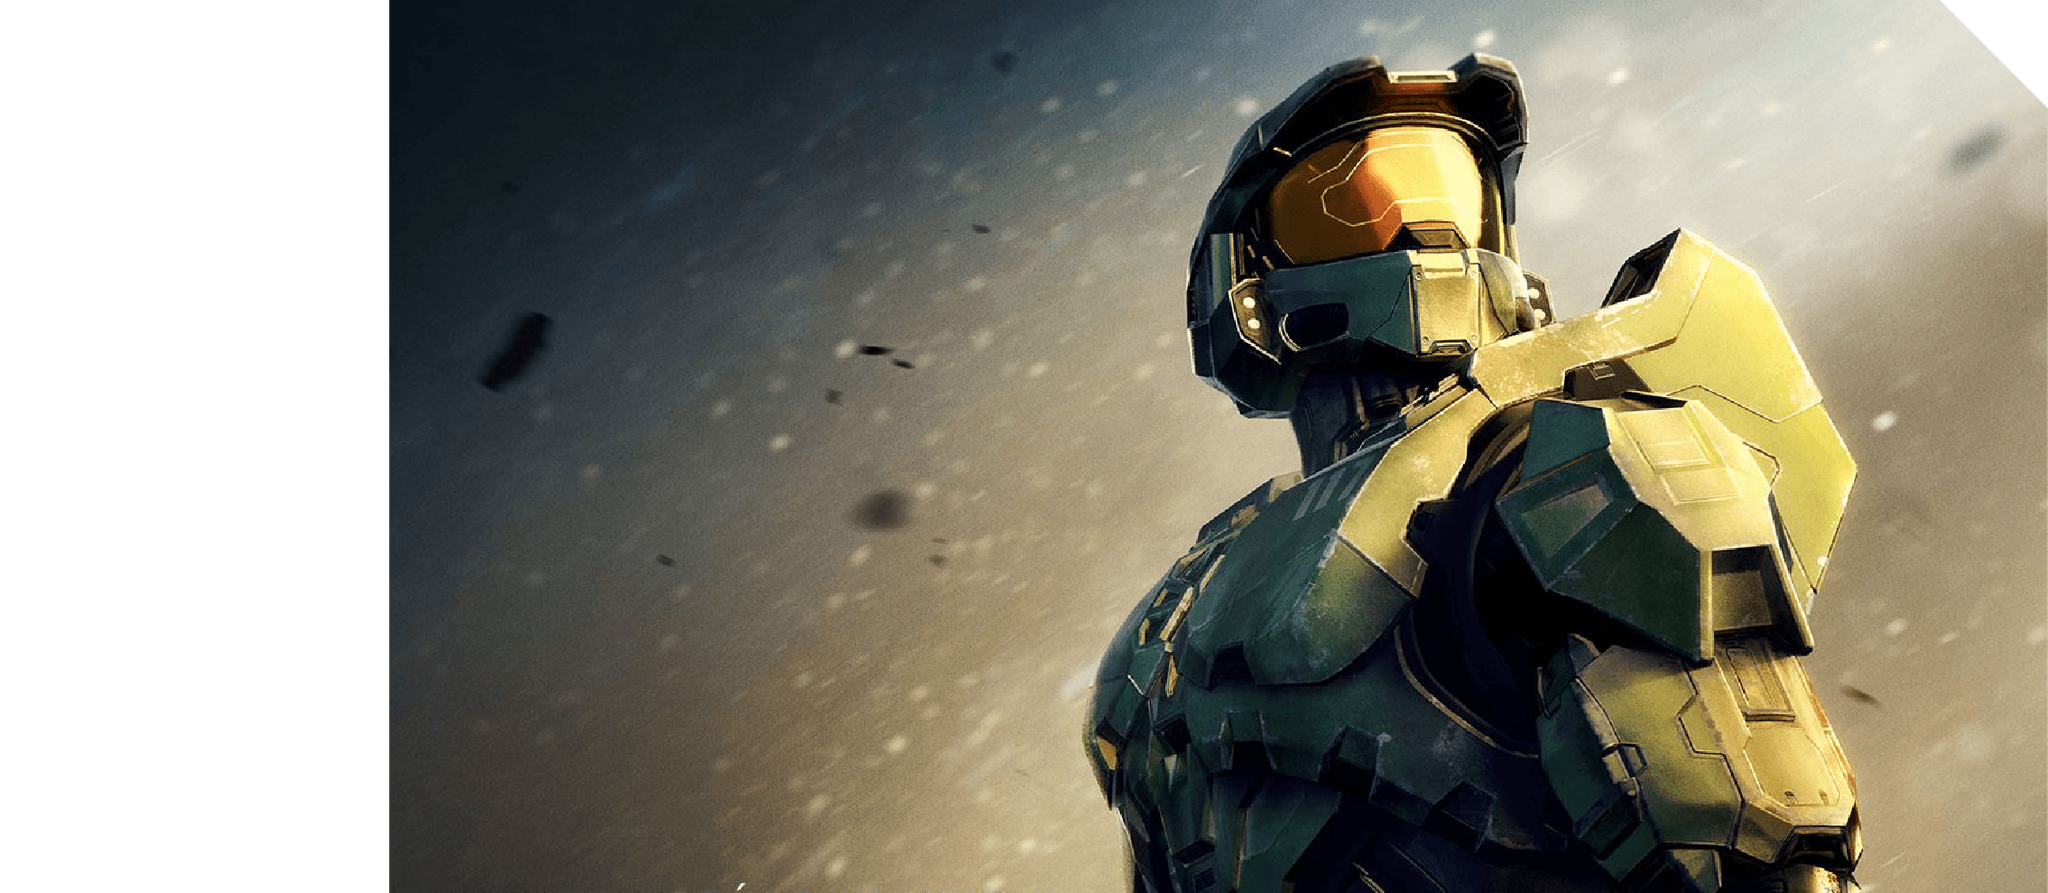
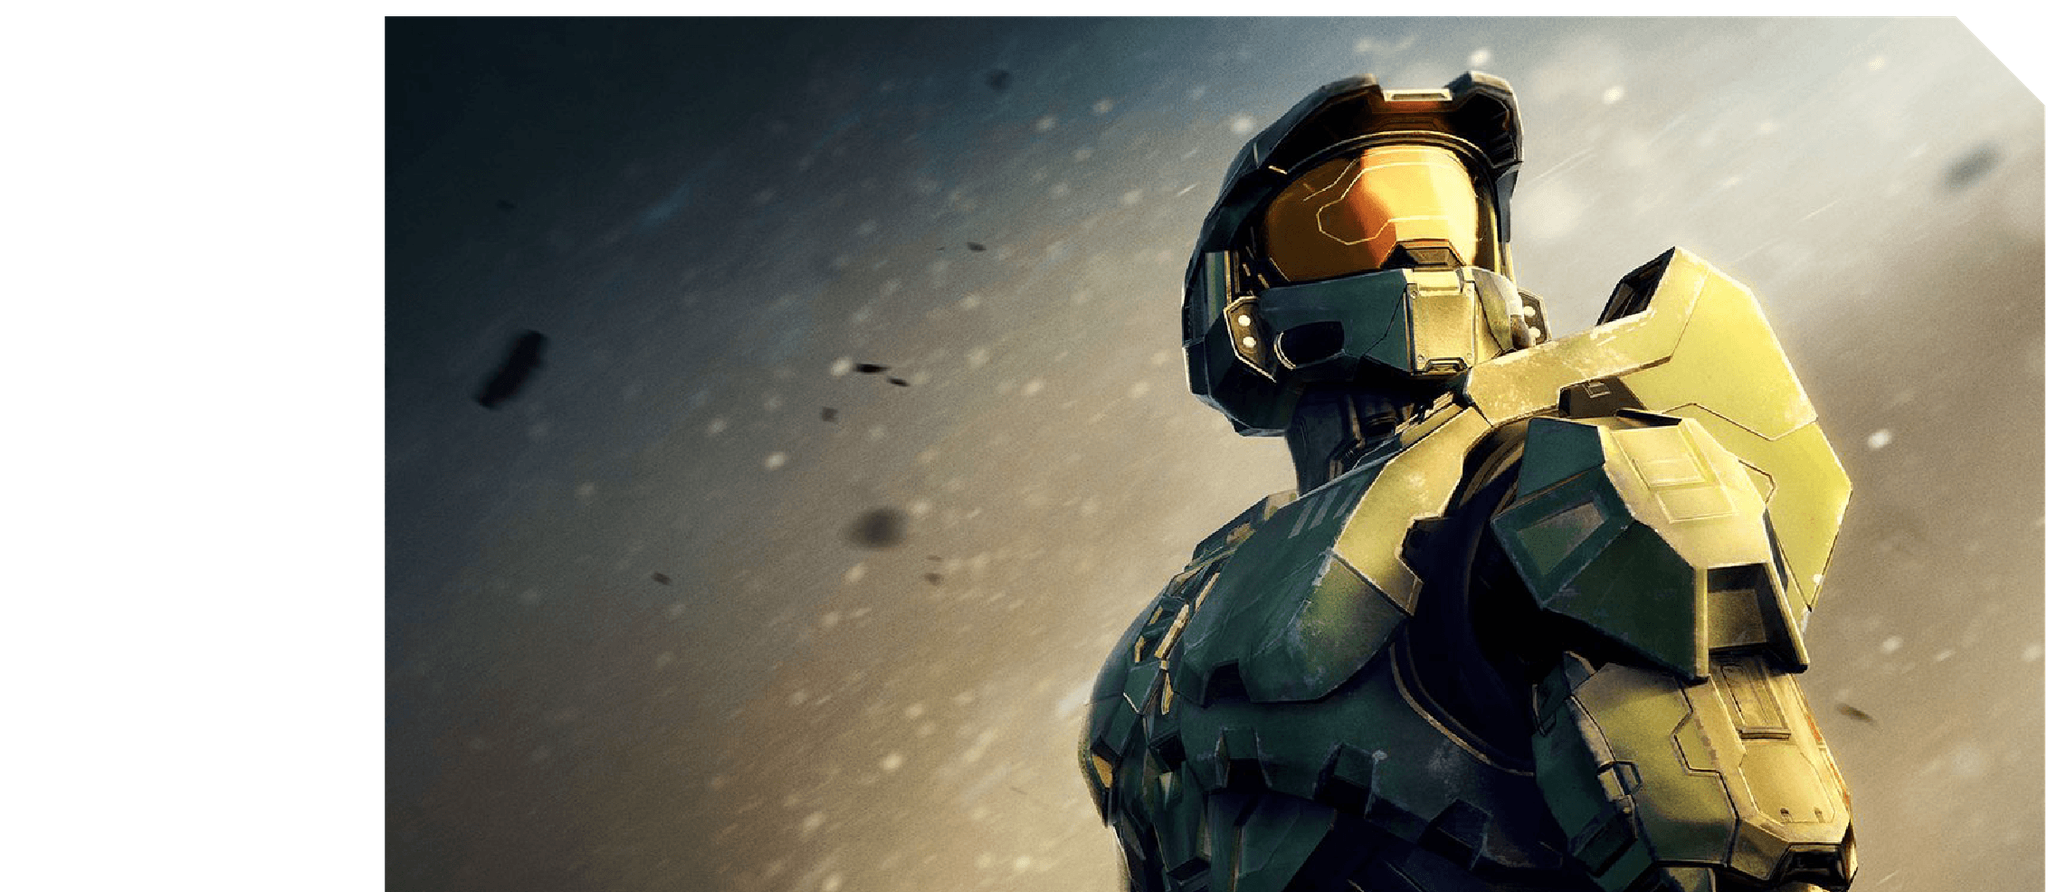
Ajout de l'aprem

diff --git a/src/components/Header.jsx b/src/components/Header.jsx
@@ -1,20 +1,37 @@
 import React from "react";
 import "./menu.css";
-import logo from "../assets/logo.svg";
+import logo from "../assets/logo_1.svg";
 import ham from "../assets/ham.svg";
 
 export default function Header() {
   return (
     <header className="py-4">
       <div className="d-flex justify-content-between align-items-center m-0 p-0">
-        <div className="menu-desk d-lg-block d-none">
-          <ul className="menu gap-3 p-0">
+     <div className="d-flex gap-3 align-items-center">
+     <div className="m-0 p-0 align-self-start">
+            <img
+              src={logo}
+              className="d-lg-block d-none"
+              height={30}
+              alt="..."
+            />
+            <img
+              src={logo}
+              className="d-block d-lg-none"
+              height={20}
+              alt="..."
+            />
+          </div>
+        <div className="menu-desk m-0 p-0 d-lg-block d-none align-self-end">
+        
+          <ul className="menu gap-3 p-0 align-items-end">
             <li style={{ color: "#107C10" }}>Home</li>
             <li>Actus</li>
             <li>Tests</li>
             <li>Sorties</li>
           </ul>
         </div>
+     </div>
         <div className="menu-mobile d-lg-none d-block">
           <svg
             width={55}
@@ -31,10 +48,6 @@ export default function Header() {
           </svg>
         </div>
 
-        <div className="logo mx-auto">
-          <img src={logo} className="d-lg-block d-none" height={25} alt="..." />
-          <img src={logo} className="d-block d-lg-none" height={20} alt="..." />
-        </div>
         <div className="d-flex align-items-center">
           <div className="search-bar d-lg-block d-none">
             <div className="icon-search">
@@ -54,14 +67,14 @@ export default function Header() {
             />
           </div>
           <div className="d-lg-none d-block">
-          <svg
-                xmlns="http://www.w3.org/2000/svg"
-                width="30"
-                height="30"
-                viewBox="0 0 50 50"
-              >
-                <path d="M 21 3 C 11.621094 3 4 10.621094 4 20 C 4 29.378906 11.621094 37 21 37 C 24.710938 37 28.140625 35.804688 30.9375 33.78125 L 44.09375 46.90625 L 46.90625 44.09375 L 33.90625 31.0625 C 36.460938 28.085938 38 24.222656 38 20 C 38 10.621094 30.378906 3 21 3 Z M 21 5 C 29.296875 5 36 11.703125 36 20 C 36 28.296875 29.296875 35 21 35 C 12.703125 35 6 28.296875 6 20 C 6 11.703125 12.703125 5 21 5 Z"></path>
-              </svg>
+            <svg
+              xmlns="http://www.w3.org/2000/svg"
+              width="30"
+              height="30"
+              viewBox="0 0 50 50"
+            >
+              <path d="M 21 3 C 11.621094 3 4 10.621094 4 20 C 4 29.378906 11.621094 37 21 37 C 24.710938 37 28.140625 35.804688 30.9375 33.78125 L 44.09375 46.90625 L 46.90625 44.09375 L 33.90625 31.0625 C 36.460938 28.085938 38 24.222656 38 20 C 38 10.621094 30.378906 3 21 3 Z M 21 5 C 29.296875 5 36 11.703125 36 20 C 36 28.296875 29.296875 35 21 35 C 12.703125 35 6 28.296875 6 20 C 6 11.703125 12.703125 5 21 5 Z"></path>
+            </svg>
           </div>
           <div className="ms-3 ">
             <button className="xboxbtn">se connecter</button>

diff --git a/src/components/CardGames.jsx b/src/components/CardGames.jsx
@@ -16,18 +16,11 @@ export default function CardGames() {
         <div key={i} className="col-lg-3 col-md-6 col-12">
           <div className="card my-2 rounded-2" >
             <div className="row g-0 row-reverse">
-              <div className="col-4 p-2 ">
-                <div className="row">
-                  <div className="col-12 d-flex">
-                    <img className="ms-4 mt-4" width={70} src={el.logo} alt="..." />
-                  </div>
-                  <div className="col-12">
-                    <div
-                      className="text-center mt-1 fw-bold me-4"
-                      style={{ width: "120px", fontSize: "11px" }}
-                    >
-                      PC | PS4 | XBOX
-                    </div>
+              <div className="col-5 ">
+                <div className="d-flex h-100 flex-column justify-content-center align-items-center">
+                <img  width={70} src={el.logo} alt="..." />
+                  <div className="mt-3">
+                  <img className="" width={90} src={Image.console} alt="..." />
                   </div>
                 </div>
               </div>

diff --git a/src/components/Cards.jsx b/src/components/Cards.jsx
@@ -8,7 +8,7 @@ export default function Cards() {
     <div className="row">
       {data.map((el, i) => (
         <div key={i} className="col-lg-12 col-md-6 col-12">
-          <div className="card my-2 rounded-2">
+          <div className="card cardnew my-2 rounded-2">
             <div className="row g-0">
               <div className="col-7 p-2 position-relative">
                 <div style={{ minHeight: "120px", maxHeight: "180px" }}>
@@ -16,7 +16,7 @@ export default function Cards() {
                     className="px-3 ps-4 position-absolute"
                     style={{ zIndex: 99, width: "110%", top: "15%", left: 0 }}
                   >
-                    <h6 className=" p-0" >
+                    <h6 className=" p-0 pt-3" >
                     Xbox Series X : Les Nouveaux Jeux Qui Vont Vous En Mettre Plein les Yeux en 2023 
                     </h6>
                     <span className="text-muted fw-bold">Actus</span>

diff --git a/src/Section/Jeux.jsx b/src/Section/Jeux.jsx
@@ -6,8 +6,11 @@ import jeuximg from "../assets/game_titre.svg"
 export default function Jeux() {
   return (
     <div>
-      <div className="my-5">
-      <div className=""><img src={jeuximg} className="w-25" alt="..."/></div>
+      <div className="my-5 d-flex justify-content-between align-items-center">
+      <div className=""><img src={jeuximg} className="" height={'170px'} alt="..."/></div>
+      <div className="align-self-end">
+      <h1 className="text-start mb-5 line-jeux-sect">Populaire | à venir</h1>
+      </div>
       </div>
       <CardGames />
       <div className="d-flex justify-content-center mt-2">

diff --git a/src/assets/Css/Bouton.css b/src/assets/Css/Bouton.css
@@ -12,15 +12,15 @@
 
 
 .xboxbtnsm {
-    padding-top: 5px;
-    padding-bottom: 10px;
-    padding-left: 10px;
-    padding-right: 10px;
-    clip-path: polygon(90% 0, 100% 14%, 100% 100%, 75% 100%, 11% 100%, 0 83%, 0 0);
-    color: #e9f0e1; 
-    font-size: 12px;
-    background-color: #747a74; 
-    border-color: #747a74; 
+    height:40px;
+    padding-bottom: 8px;
+    padding-right: 35px !important;
+    width: 145px;
+     border: none;
+     background-color: transparent;
+       background-image: url('../btn_see.svg');
+       background-size: contain;
+       background-repeat: no-repeat;
     
 }
 

diff --git a/src/assets/Image.js b/src/assets/Image.js
@@ -6,6 +6,7 @@ import witchlogo from './witcherlogo.png'
 import witchwall from './witcher.jpg'
 import starfield from './starfield.jpg'
 import starfieldlogo from './Starfield logo.svg'
+import console from './console.png'
 
 
-export default {forzalogo, forzawall, warlogo, warwall, witchlogo,witchwall,starfield,starfieldlogo}
+export default {forzalogo, forzawall, warlogo, warwall, witchlogo,witchwall,starfield,starfieldlogo,console}

diff --git a/src/Section/Hero.css b/src/Section/Hero.css
@@ -1,8 +1,7 @@
 .hero {
     position: relative;
     background-image: url('../assets/himage.png');
-    background-size: cover;
-    background-position: center;
+    background-size: 100%;
     
 }
 
@@ -15,7 +14,7 @@
 
  .gauche, .droite {
     position: absolute !important;
-    top: 35%;
+    top: 43%;
 }
 .gauche {
     left: -3% !important;

diff --git a/src/components/Cards.css b/src/components/Cards.css
@@ -7,3 +7,11 @@
     clip-path: polygon(100% 0, 100% 8%, 100% 100%, 75% 100%, 34% 100%, 10% 87%, 37% 0);
 
 }
+
+.cardnew {
+    background-color: transparent !important;
+    border: none !important;
+    background-image: url('../assets/card.png');
+    background-repeat: no-repeat;
+    background-size: cover;
+}

diff --git a/src/components/menu.css b/src/components/menu.css
@@ -1,5 +1,6 @@
 .menu {
   display: flex;
+  align-items: end !important;
 }
 .menu li {
   list-style: none;

diff --git a/src/App.css b/src/App.css
@@ -29,6 +29,7 @@
 }
 
 .line-jeux-sect::after{
+  width: 150px;
   top: 120%;
   left: 2%;
 }
